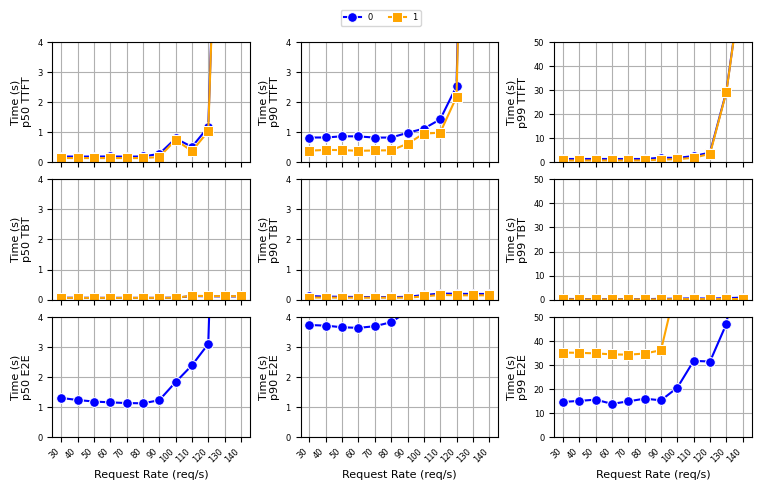
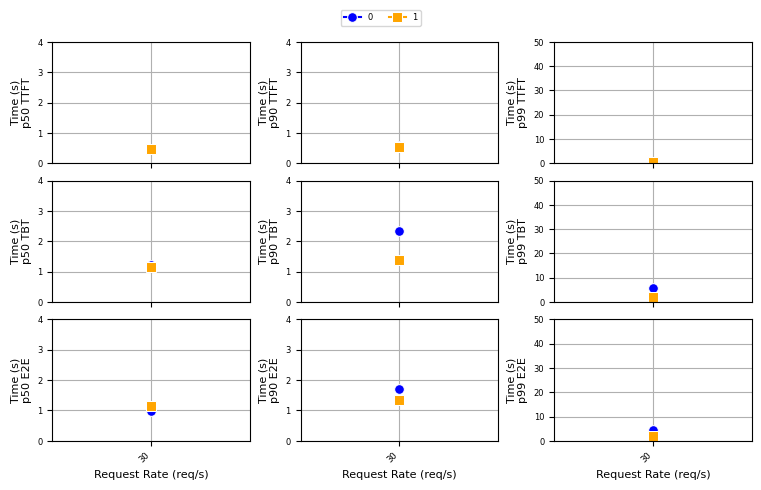
'1'

diff --git a/notebooks/plots_mix.py b/notebooks/plots_mix.py
@@ -4,7 +4,7 @@ import seaborn as sns
 import matplotlib.pyplot as plt
 import matplotlib.colors as mcolors
 import numpy as np
-from utils import  get_summary_data, get_request_data
+from notebooks.utils import  get_summary_data, get_request_data
 from perf_model import PerfModel
 
 # 设置全局字体大小，比默认字体小2号
@@ -24,6 +24,23 @@ perf_model_path = "../data/perf_model.csv"
 os.makedirs(plots_dir, exist_ok=True)
 req_types = [0,1]
 
+path = 'D:\homework\网络\论文\LLMshedule\pd分离\splitwise-DRL\plots\splitplot'
+def get_summary_data(results_dir, scheduler, start_state, cluster, trace, seed, model=""):
+    try:
+        summary_df = pd.read_csv(path+"/summary.csv")
+    except Exception as e:
+        print(e)
+        print(f"Failed to read {results_dir}/{seed}/{start_state}/{trace}/{cluster}/{model}/{scheduler}/summary.csv")
+        return None
+    return summary_df
+
+def get_request_data(results_dir, scheduler, start_state, cluster, trace, seed, model=""):
+    try:
+        request_df = pd.read_csv(path+"/detailed/0.csv")
+    except:
+        print(f"Failed to read {results_dir}/{seed}/{start_state}/{trace}/{cluster}/{model}/{scheduler}/detailed/0.csv")
+        return None
+    return request_df
 
 def get_data(configs, traces, seed, quantiles=[0.5, 0.9, 0.99], model=""):
     """
@@ -417,37 +434,37 @@ def main():
     }
 
     configs = [mixed_pool_config]
-    traces = [f"mixed_qps_{i}_code30" for i in range(30, 141, 10)]  # Example range
+    traces = [f"mixed_qps_{i}_code30" for i in range(30, 31, 10)]  # Example range
 
     # Get data
     results_df, request_dfs = get_data(configs, traces, seed=0, model="bloom-176b")
     name = 'splitwise'
 
-    # Generate plots for slowdown metrics
-    plot_y_vs_trace_new(
-        results_df,
-        traces,
-        y_vars=["ttft_slowdown", "tbt_slowdown", "e2e_slowdown"],
-        y_vars_labels=["TTFT", "TBT", "E2E"],
-        title=None,
-        save_path=plots_dir + name
-    )
-
-    # Generate plots for additional metrics (nth_token_overheads and queue_times)
-    plot_additional_metrics(
-        results_df,
-        traces,
-        y_vars=["nth_token_overheads", "queue_times"],
-        y_vars_labels=["Nth Token Overheads", "Queue Times"],
-        title=None,
-        save_path=plots_dir + name
-    )
+    # # Generate plots for slowdown metrics
+    # plot_y_vs_trace_new(
+    #     results_df,
+    #     traces,
+    #     y_vars=["ttft_slowdown", "tbt_slowdown", "e2e_slowdown"],
+    #     y_vars_labels=["TTFT", "TBT", "E2E"],
+    #     title=None,
+    #     save_path=plots_dir + name
+    # )
+    #
+    # # Generate plots for additional metrics (nth_token_overheads and queue_times)
+    # plot_additional_metrics(
+    #     results_df,
+    #     traces,
+    #     y_vars=["nth_token_overheads", "queue_times"],
+    #     y_vars_labels=["Nth Token Overheads", "Queue Times"],
+    #     title=None,
+    #     save_path=plots_dir + name
+    # )
 
     # Generate plots separated by request type
     plot_y_vs_trace_by_request_type(
         results_df,
         traces,
-        y_vars=["ttft_times", "tbt_times", "e2e_times"],
+        y_vars=["ttft_slowdown", "tbt_slowdown", "e2e_slowdown"],
         y_vars_labels=["TTFT", "TBT", "E2E"],
         title=None,
         save_path=plots_dir + name

diff --git a/scheduler.py b/scheduler.py
@@ -187,7 +187,7 @@ class Scheduler(ABC):
         success_time = [r.metrics.schedule_success_duration for r in self.completed_queue]
         array_results["success_times"] = np.array(success_time)
 
-        request_types = [r.workload_type for r in self.completed_queue]
+        request_types = [int(r.workload_type) for r in self.completed_queue]
         array_results["request_types"] = np.array(request_types)
 
         return array_results
@@ -681,7 +681,7 @@ class MixedPoolScheduler(KVScheduler):
         if (len(self.prompt_instances) == 0 or len(self.token_instances) == 0) \
             and len(self.mixed_instances) == 0:
             raise ValueError("No instances available")
-        print("MixedPoolScheduler", clock(), request.workload_type)
+        # print("MixedPoolScheduler", clock(), request.workload_type)
 
         prompt_task = request.root_node
         token_task = next(request.successors(prompt_task))
@@ -745,8 +745,8 @@ class MixedPoolScheduler(KVScheduler):
         # bookkeeping
         prompt_instance.sched_pending_tokens += prompt_task.prompt_size
         token_instance.sched_pending_tokens += 1
-        print("prompt instance num is", len(self.prompt_instances), ",token instance num is",
-              len(self.token_instances), "mixed instance num is", len(self.mixed_instances))
+        # print("prompt instance num is", len(self.prompt_instances), ",token instance num is",
+        #       len(self.token_instances), "mixed instance num is", len(self.mixed_instances))
 
 
 

diff --git a/generate_trace.py b/generate_trace.py
@@ -259,19 +259,19 @@ if __name__ == "__main__":
     # download_azure_llm_traces()
     #
     # # generate request traces
-    # generate_code_traces(
-    #     max_requests=1000000,
-    #     end_time=600,
-    #     request_rates=list(range(30, 251, 10)),
-    #     code_distributions_file="data/code_distributions.csv")
-    # print("Generated code traces")
-
-    generate_conv_traces(
+    generate_code_traces(
         max_requests=1000000,
         end_time=600,
-        request_rates=list(range(1000,1001, 10)),
-        conv_distributions_file="data/conv_distributions.csv")
-    print("Generated conv traces")
+        request_rates=list(range(30, 31, 10)),
+        code_distributions_file="data/code_distributions.csv")
+    print("Generated code traces")
+
+    # generate_conv_traces(
+    #     max_requests=1000000,
+    #     end_time=600,
+    #     request_rates=list(range(1000,1001, 10)),
+    #     conv_distributions_file="data/conv_distributions.csv")
+    # print("Generated conv traces")
 
     # generate request traces for 2 min
     # generate_code_traces(
